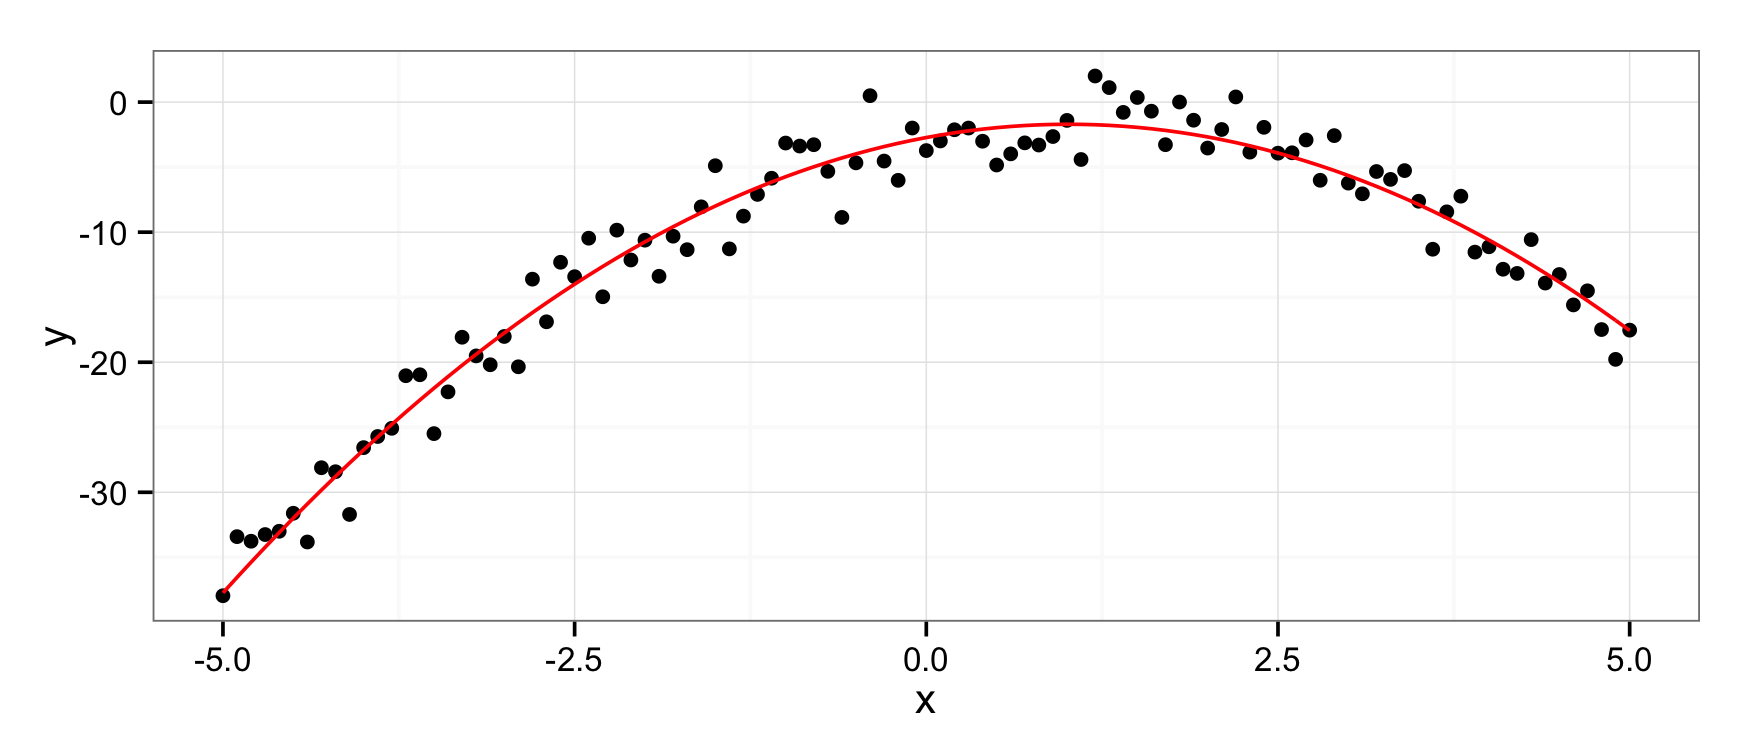
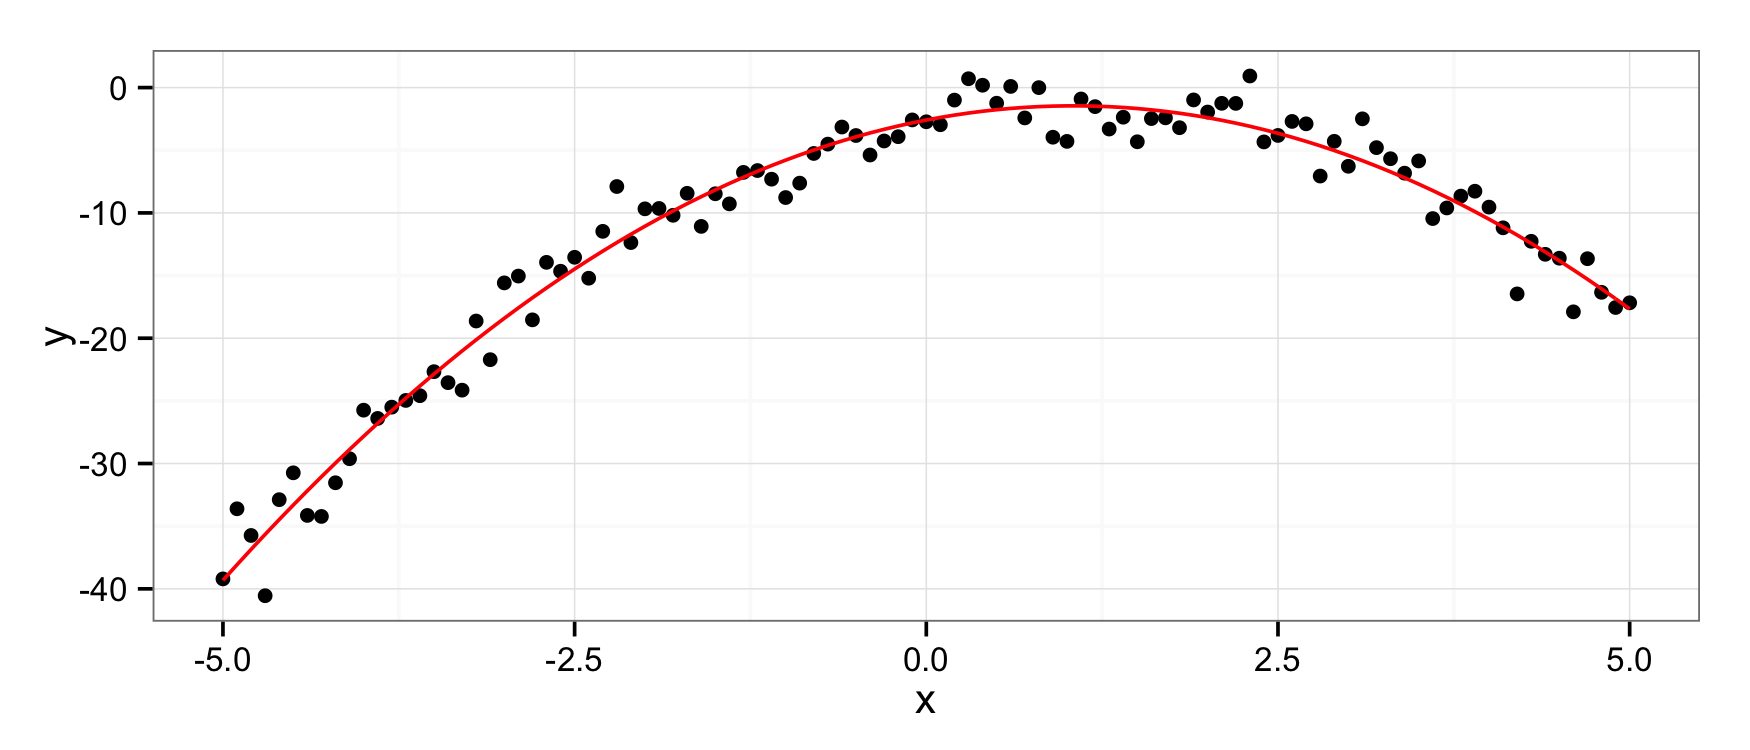
readme: bezier cleaning

diff --git a/README.md b/README.md
@@ -282,24 +282,26 @@ And viewing them is just as easy:
 df <- sapply(s, as.function(bezPolys)) %>% t %>% as.data.frame
 names(df) <- c("x", "y")
 ggplot(aes(x = x, y = y), data = df) + 
-  geom_point(data = points, color = "red", size = 8) +
+  geom_point(data = points, color = "red", size = 4) +
   geom_path(data = points, color = "red", linetype = 2) +
-  geom_path()
+  geom_path(size = 2)
 ```
 
 ![](README-unnamed-chunk-16-1.png)
 
+Weighting is available also:
+
 ``` r
-points <- data.frame(x = c(1,-3,3,-1), y = c(0,1,1,0))
+points <- data.frame(x = c(1,-2,2,-1), y = c(0,1,1,0))
 (bezPolys <- bezier(points))
-#> -12 t  +  30 t^2  -  20 t^3  +  1
+#> -9 t  +  21 t^2  -  14 t^3  +  1
 #> 3 t  -  3 t^2
-df <- sapply(s, as.function(bezPolys)) %>% t %>% as.data.frame
+df <- sapply(s, as.function(bezPolys, weights = c(1,5,5,1))) %>% t %>% as.data.frame
 names(df) <- c("x", "y")
 ggplot(aes(x = x, y = y), data = df) + 
-  geom_point(data = points, color = "red", size = 8) +
+  geom_point(data = points, color = "red", size = 4) +
   geom_path(data = points, color = "red", linetype = 2) +
-  geom_path()
+  geom_path(size = 2)
 ```
 
 ![](README-unnamed-chunk-17-1.png)
@@ -327,7 +329,7 @@ df$y <- with(df, -x^2 + 2*x - 3 + rnorm(n, 0, 2))
 
 mod <- lm(y ~ x + I(x^2), data = df)
 (p <- mod %>% as.mpoly %>% round)
-#> 2.017 x  -  0.997 x^2  -  2.723
+#> 2.166 x  -  1.036 x^2  -  2.588
 qplot(x, y, data = df) +
   stat_function(fun = as.function(p), colour = 'red')
 #> f(x)
